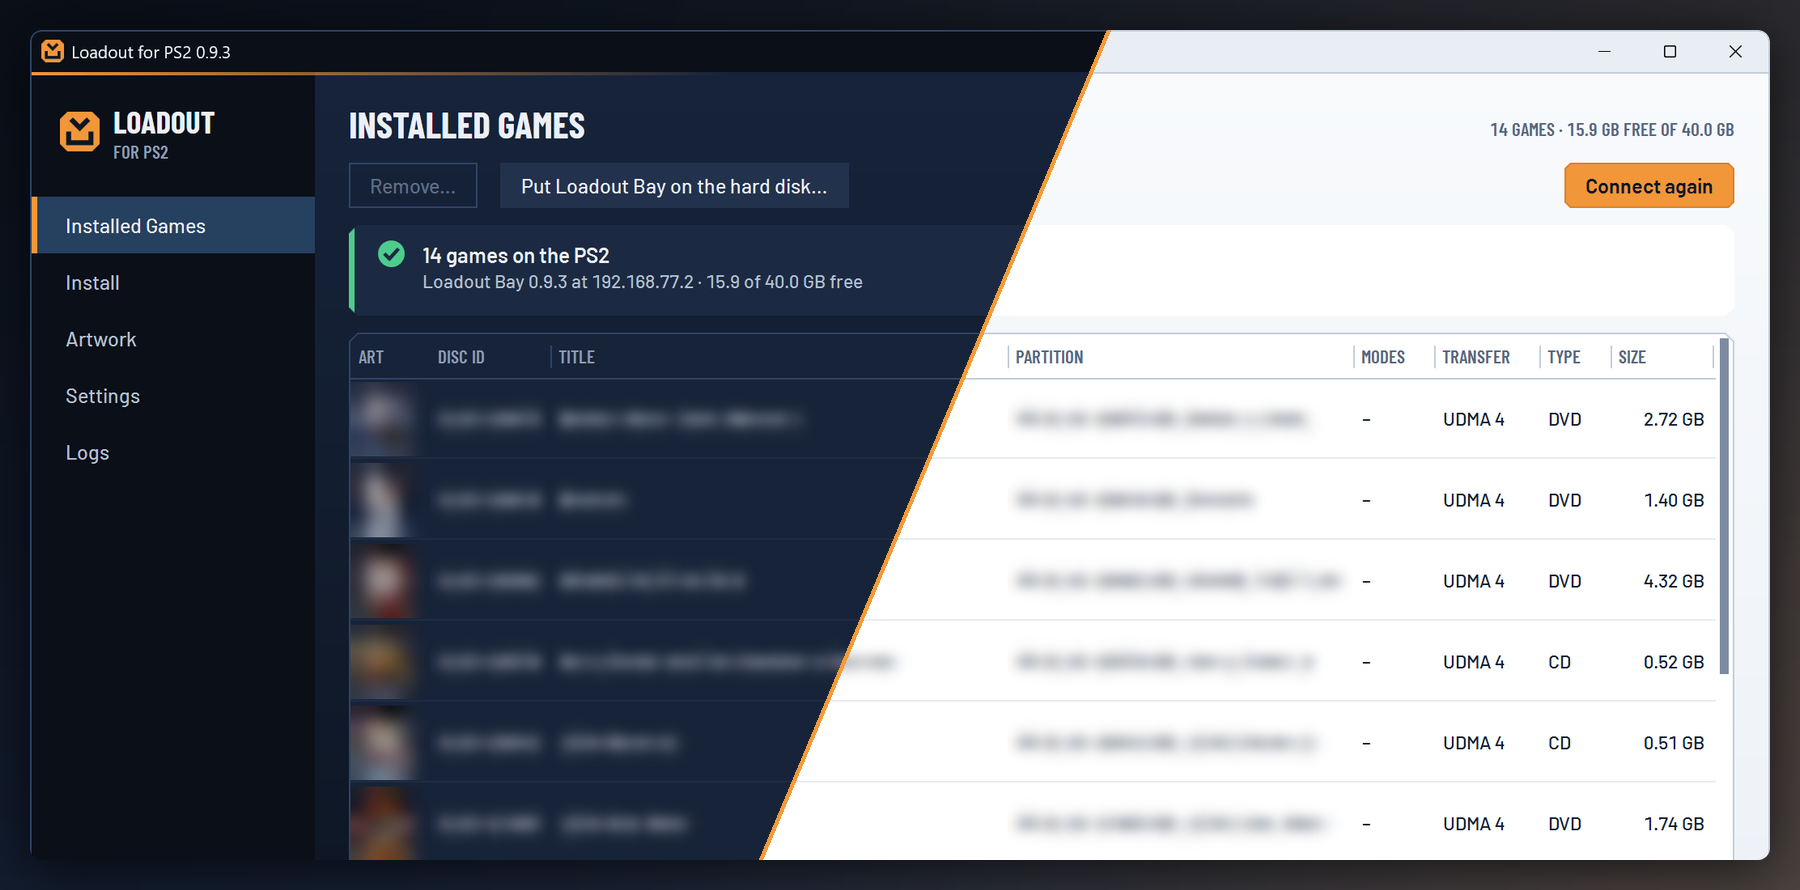
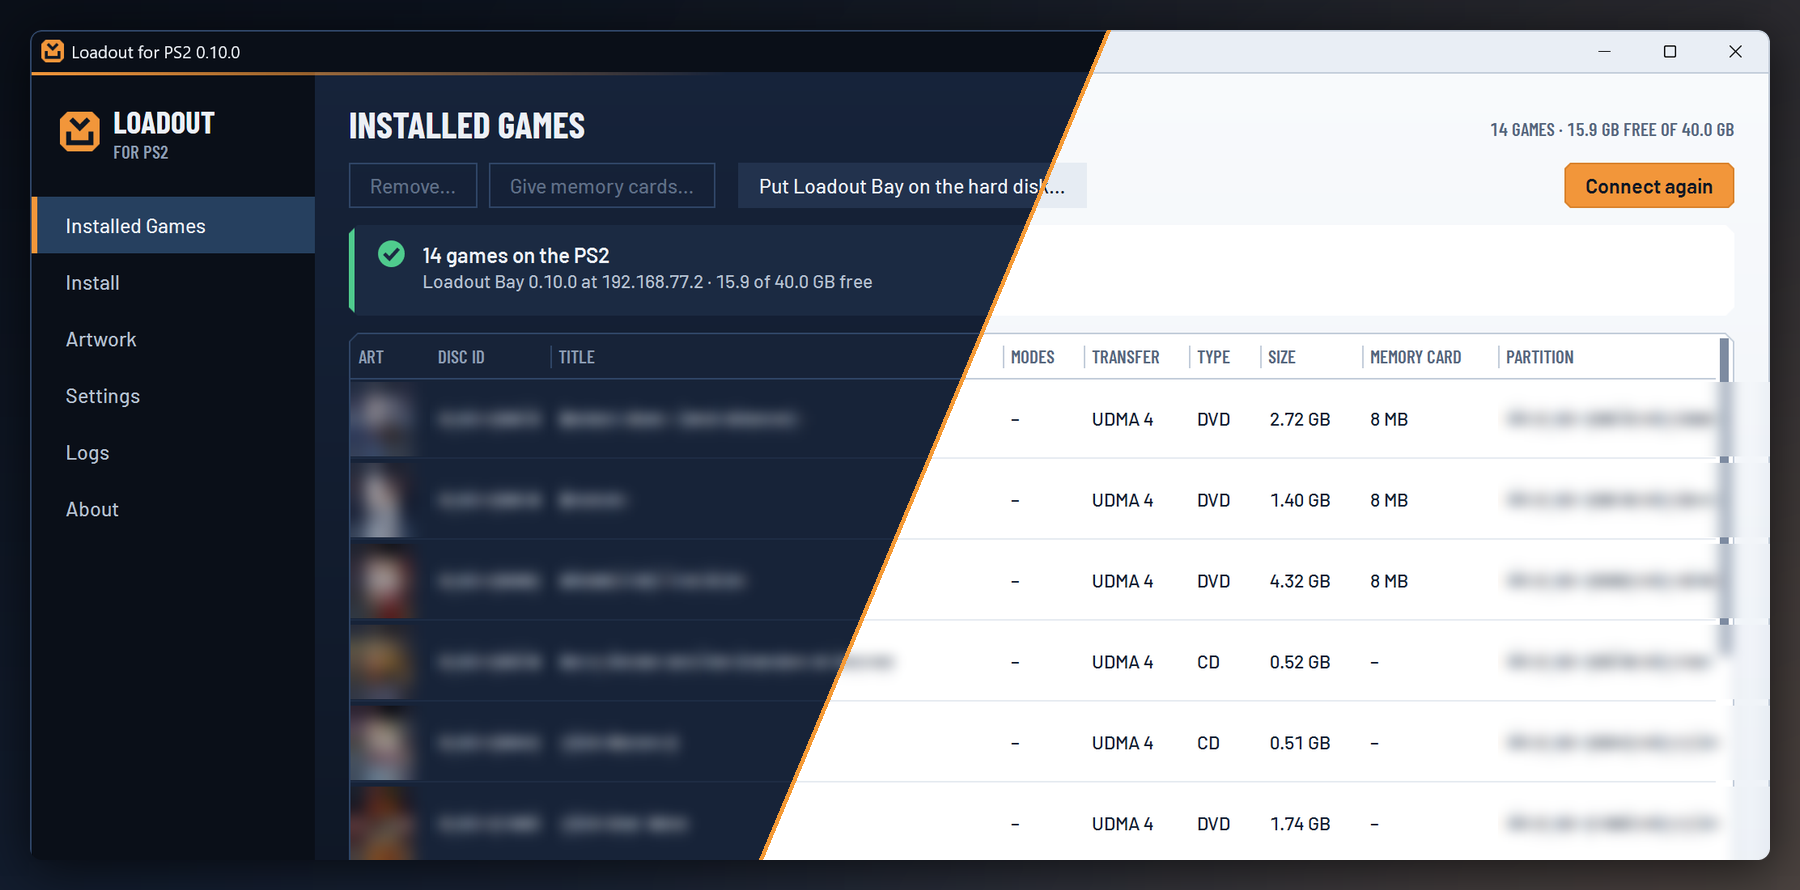
Release 0.10.0: date the changelog, drop the -dev suffix, and show 0.10.0 and the Memory card column in the readme's images.

diff --git a/CHANGELOG.md b/CHANGELOG.md
@@ -2,13 +2,12 @@
 
 Notable changes to Loadout and Loadout Bay. The format follows [Keep a Changelog](https://keepachangelog.com/en/1.1.0/). Until 1.0.0, every release is a prerelease and behavior can change between minor versions. This changelog has a section for each release.
 
-## Unreleased
+## 0.10.0 - 2026-11-11
 
 ### Added
 
 - Installed Games has a Memory card column: the size of the card in slot 1 of each game's OPL settings, "shared" when other games use the same card, or Missing when the card the settings name is not on the PS2. Its tooltip names the card and the games that share it.
 - Give memory cards gives the selected games a card at once, from 8 to 64 MB, and a new card in place of a missing one. A card already on the PS2 is used as it is, with its saves, and never replaced. Before anything is written, it lists what each game gets and checks that the new cards fit in OPL's partition.
-
 - An About page (Ctrl+6) shows Loadout's version and author, links to the GitHub page, the issues page and the changelog, where the game data and the artwork come from, and the licence texts. Its Check for updates asks GitHub whether a newer Loadout is out.
 - Loadout checks GitHub for a newer version when it starts, and when one is out it shows what's new. Update now downloads it, checks that it is signed by its publisher and is the version offered, replaces Loadout's files, and restarts Loadout as the new version. Settings stay as they are, and a Loadout that was connected to Loadout Bay connects again. The check can be turned off in Settings, under Updates, or in the update dialog itself; About's Check for updates works at any time.
 - With the update check on, Connect sends this Loadout's Loadout Bay without asking when the one on the PS2 is older. A newer one is still only replaced when you say so.

diff --git a/README.md b/README.md
@@ -20,7 +20,7 @@ Queue iso, bin and cue, or chd files. Loadout sends them over your network, with
 
 Covers, sizes, memory cards and free space. Change a game's title or modes, give games a memory card, or remove them.
 
-![The Installed Games page, zoomed in on its free space, transfer modes, disc types and sizes](docs/images/covers.png)
+![The Installed Games page, zoomed in on its free space, transfer modes, disc types, sizes and memory cards](docs/images/covers.png)
 
 ### Follow it on the TV
 
